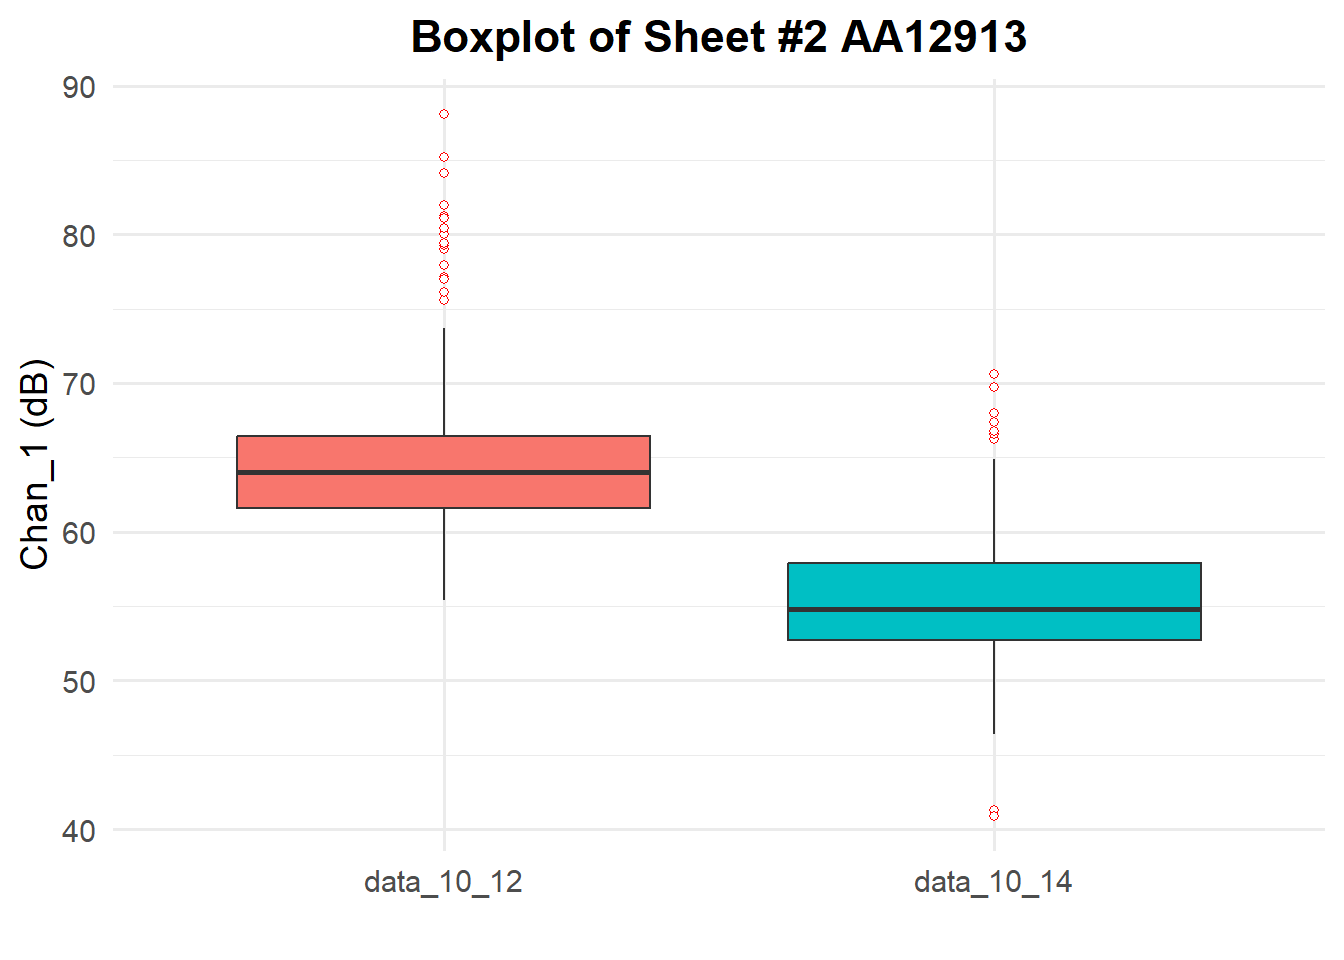
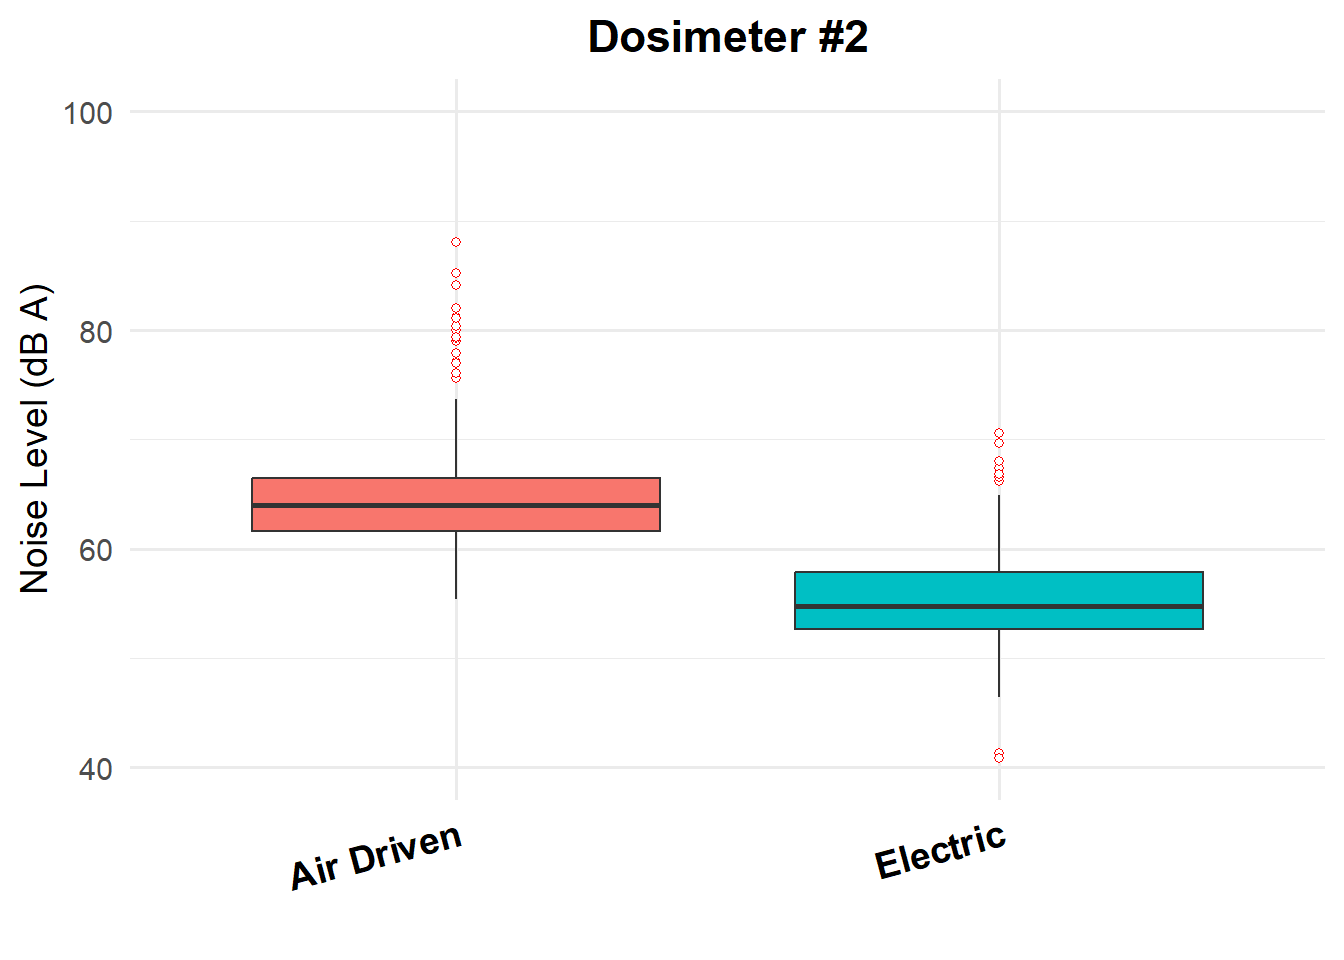
4/14/2026

diff --git a/docs/2025_0803_Brian.html b/docs/2025_0803_Brian.html
@@ -417,7 +417,7 @@ aria-hidden="true"></span> </a>
 <div class="tab-content">
 <div id="summary" class="tab-pane fade in active">
 <p>
-<strong>Last updated:</strong> 2025-10-22
+<strong>Last updated:</strong> 2026-04-14
 </p>
 <p>
 <strong>Checks:</strong> <span
@@ -551,15 +551,15 @@ project makes it easier to run your code on other machines.</p>
 <div class="panel panel-default">
 <div class="panel-heading">
 <p class="panel-title">
-<a data-toggle="collapse" data-parent="#workflowr-checks" href="#strongRepositoryversionstrongahrefhttpsgithubcomhan16Collaborationstree60ade3ab7800feecf24ad5468d272c39c56ab0a7targetblank60ade3aa">
+<a data-toggle="collapse" data-parent="#workflowr-checks" href="#strongRepositoryversionstrongahrefhttpsgithubcomhan16Collaborationstree08d61d2182e02bf96b7b6c56da4b98175815ecc9targetblank08d61d2a">
 <span class="glyphicon glyphicon-ok text-success"
 aria-hidden="true"></span> <strong>Repository version:</strong>
-<a href="https://github.com/han16/Collaborations/tree/60ade3ab7800feecf24ad5468d272c39c56ab0a7" target="_blank">60ade3a</a>
+<a href="https://github.com/han16/Collaborations/tree/08d61d2182e02bf96b7b6c56da4b98175815ecc9" target="_blank">08d61d2</a>
 </a>
 </p>
 </div>
 <div
[2 lines of base64/hex data omitted]
 class="panel-collapse collapse">
 <div class="panel-body">
 <p>
@@ -569,7 +569,7 @@ reproducibility.
 </p>
 <p>
 The results in this page were generated with repository version
-<a href="https://github.com/han16/Collaborations/tree/60ade3ab7800feecf24ad5468d272c39c56ab0a7" target="_blank">60ade3a</a>.
+<a href="https://github.com/han16/Collaborations/tree/08d61d2182e02bf96b7b6c56da4b98175815ecc9" target="_blank">08d61d2</a>.
 See the <em>Past versions</em> tab to see a history of the changes made
 to the R Markdown and HTML files.
 </p>
@@ -589,7 +589,6 @@ Ignored files:
     Ignored:    analysis/2022_Mar2_Marinho_cache/
 
 Unstaged changes:
-    Modified:   analysis/2025_0601_Shikha.Rmd
     Modified:   analysis/2025_0803_Brian.Rmd
 
 </code></pre>
@@ -636,6 +635,40 @@ Message
 </tr>
 </thead>
 <tbody>
+<tr>
+<td>
+Rmd
+</td>
+<td>
+<a href="https://github.com/han16/Collaborations/blob/7590407e4d39e8db7717a4c1dd32efd8a810ae89/analysis/2025_0803_Brian.Rmd" target="_blank">7590407</a>
+</td>
+<td>
+han
+</td>
+<td>
[phone redacted]
+</td>
+<td>
+10/22/2025
+</td>
+</tr>
+<tr>
+<td>
+html
+</td>
+<td>
+<a href="https://rawcdn.githack.com/han16/Collaborations/7590407e4d39e8db7717a4c1dd32efd8a810ae89/docs/2025_0803_Brian.html" target="_blank">7590407</a>
+</td>
+<td>
+han
+</td>
+<td>
[phone redacted]
+</td>
+<td>
+10/22/2025
+</td>
+</tr>
 <tr>
 <td>
 Rmd
@@ -692,6 +725,8 @@ data_10_15=readRDS(file.path(root, &quot;..\\2025\\202509\\Brian\\Fw_ Dosimeter 
 <pre class="r"><code># Sheet names
 sheets &lt;- c(&quot;#1 AA12842&quot;, &quot;#2 AA12913&quot;, &quot;#3 AA12830&quot;)
 
+plot_list=list()
+
 # Loop through each sheet and draw boxplot + report outliers
 for (i in seq_along(sheets)) {
   
@@ -702,7 +737,7 @@ for (i in seq_along(sheets)) {
   # Combine into one data frame for plotting
   df_plot &lt;- data.frame(
     Value = c(d1, d2),
-    Dataset = factor(c(rep(&quot;data_10_12&quot;, length(d1)), rep(&quot;data_10_14&quot;, length(d2))))
+    Dataset = factor(c(rep(&quot;Air Driven&quot;, length(d1)), rep(&quot;Electric&quot;, length(d2))))
   )
   
   # ---- Outlier detection ----
@@ -724,33 +759,161 @@ for (i in seq_along(sheets)) {
   p &lt;- ggplot(df_plot, aes(x = Dataset, y = Value, fill = Dataset)) +
     geom_boxplot(outlier.shape = 21, outlier.fill = &quot;white&quot;, outlier.color = &quot;red&quot;) +
     labs(
-      title = paste(&quot;Boxplot of Sheet&quot;, sheets[i]),
-      y = &quot;Chan_1 (dB)&quot;,
+      title = paste0(&quot;Dosimeter #&quot;, i),
+      y = &quot;Noise Level (dB A)&quot;,
       x = &quot;&quot;
     ) +
+    ylim(c(40, 100))+
     theme_minimal(base_size = 14) +
     theme(
       legend.position = &quot;none&quot;,
-      plot.title = element_text(hjust = 0.5, face = &quot;bold&quot;)  # centers title
+      plot.title = element_text(hjust = 0.5, face = &quot;bold&quot;),  # centers title
+      axis.text.x = element_text(face = &quot;bold&quot;, size = 14, color = &quot;black&quot;, 
+                                 angle = 15,    # Slopes the text
+                                 hjust = 1      # Aligns tilted text to the ticks
+      )
     )
   
   print(p)
+  plot_list[[i]]=p
 }</code></pre>
 <pre><code>
 === Sheet: #1 AA12842 ===
 data_10_12 outliers: 85.1, 78.2, 87.6, 77.7, 77.5, 85.3, 84.7, 82.9, 80.3, 79.8, 81.9, 83.5, 80.9, 83.2, 83 
 data_10_14 outliers: 114.9, 113.8, 80.2, 110.7, 76.3, 72.9, 74.7, 43 </code></pre>
 <p><img src="figure/2025_0803_Brian.Rmd/unnamed-chunk-4-1.png" width="672" style="display: block; margin: auto;" /></p>
+<p>
+<button type="button" class="btn btn-default btn-xs btn-workflowr btn-workflowr-fig" data-toggle="collapse" data-target="#fig-unnamed-chunk-4-1">
+Past versions of unnamed-chunk-4-1.png
+</button>
+</p>
+<div id="fig-unnamed-chunk-4-1" class="collapse">
+<div class="table-responsive">
+<table class="table table-condensed table-hover">
+<thead>
+<tr>
+<th>
+Version
+</th>
+<th>
+Author
+</th>
+<th>
+Date
+</th>
+</tr>
+</thead>
+<tbody>
+<tr>
+<td>
+<a href="https://github.com/han16/Collaborations/blob/7590407e4d39e8db7717a4c1dd32efd8a810ae89/docs/figure/2025_0803_Brian.Rmd/unnamed-chunk-4-1.png" target="_blank">7590407</a>
+</td>
+<td>
+han
+</td>
+<td>
[phone redacted]
+</td>
+</tr>
+</tbody>
+</table>
+</div>
+</div>
 <pre><code>
 === Sheet: #2 AA12913 ===
 data_10_12 outliers: 88.1, 81.2, 77.1, 80, 75.6, 77.9, 80.4, 79, 79.4, 84.1, 76.1, 77, 81.1, 79, 79.3, 79.4, 85.2, 82 
 data_10_14 outliers: 66.2, 67.4, 69.7, 66.6, 68, 70.6, 66.8, 41.3, 40.9 </code></pre>
 <p><img src="figure/2025_0803_Brian.Rmd/unnamed-chunk-4-2.png" width="672" style="display: block; margin: auto;" /></p>
+<p>
+<button type="button" class="btn btn-default btn-xs btn-workflowr btn-workflowr-fig" data-toggle="collapse" data-target="#fig-unnamed-chunk-4-2">
+Past versions of unnamed-chunk-4-2.png
+</button>
+</p>
+<div id="fig-unnamed-chunk-4-2" class="collapse">
+<div class="table-responsive">
+<table class="table table-condensed table-hover">
+<thead>
+<tr>
+<th>
+Version
+</th>
+<th>
+Author
+</th>
+<th>
+Date
+</th>
+</tr>
+</thead>
+<tbody>
+<tr>
+<td>
+<a href="https://github.com/han16/Collaborations/blob/7590407e4d39e8db7717a4c1dd32efd8a810ae89/docs/figure/2025_0803_Brian.Rmd/unnamed-chunk-4-2.png" target="_blank">7590407</a>
+</td>
+<td>
+han
+</td>
+<td>
[phone redacted]
+</td>
+</tr>
+</tbody>
+</table>
+</div>
+</div>
 <pre><code>
 === Sheet: #3 AA12830 ===
 data_10_12 outliers: 79, 78.3, 79.3, 80.1, 80.7, 78.8, 81.9, 79.2, 82.5 
 data_10_14 outliers: 38.2, 38 </code></pre>
 <p><img src="figure/2025_0803_Brian.Rmd/unnamed-chunk-4-3.png" width="672" style="display: block; margin: auto;" /></p>
+<p>
+<button type="button" class="btn btn-default btn-xs btn-workflowr btn-workflowr-fig" data-toggle="collapse" data-target="#fig-unnamed-chunk-4-3">
+Past versions of unnamed-chunk-4-3.png
+</button>
+</p>
+<div id="fig-unnamed-chunk-4-3" class="collapse">
+<div class="table-responsive">
+<table class="table table-condensed table-hover">
+<thead>
+<tr>
+<th>
+Version
+</th>
+<th>
+Author
+</th>
+<th>
+Date
+</th>
+</tr>
+</thead>
+<tbody>
+<tr>
+<td>
+<a href="https://github.com/han16/Collaborations/blob/7590407e4d39e8db7717a4c1dd32efd8a810ae89/docs/figure/2025_0803_Brian.Rmd/unnamed-chunk-4-3.png" target="_blank">7590407</a>
+</td>
+<td>
+han
+</td>
+<td>
[phone redacted]
+</td>
+</tr>
+</tbody>
+</table>
+</div>
+</div>
+<pre class="r"><code>library(patchwork) # For combining plots
+combined_plot &lt;- plot_list[[1]] + plot_list[[2]] + plot_list[[3]] + 
+  plot_layout(ncol = 3) + 
+  plot_annotation(title = &#39;Simulation Laboratory&#39;, 
+                  theme = theme(plot.title = element_text(hjust = 0.5, size = 18, face = &quot;bold&quot;)))
+
+# Display the result
+print(combined_plot)</code></pre>
+<p><img src="figure/2025_0803_Brian.Rmd/unnamed-chunk-4-4.png" width="672" style="display: block; margin: auto;" /></p>
+<pre class="r"><code># Optional: Save it as a wide figure
+# ggsave(&quot;combined_dosimeters.png&quot;, combined_plot, width = 15, height = 5, dpi = 300)</code></pre>
 </div>
 <div id="air-driven-vs-electric" class="section level2">
 <h2>air driven vs electric</h2>
@@ -868,6 +1031,43 @@ ggplot(data.frame(Value = values), aes(y = Value)) +
     plot.title = element_text(hjust = 0.5, face = &quot;bold&quot;)  # center title
   )</code></pre>
 <p><img src="figure/2025_0803_Brian.Rmd/unnamed-chunk-6-1.png" width="672" style="display: block; margin: auto;" /></p>
+<p>
+<button type="button" class="btn btn-default btn-xs btn-workflowr btn-workflowr-fig" data-toggle="collapse" data-target="#fig-unnamed-chunk-6-1">
+Past versions of unnamed-chunk-6-1.png
+</button>
+</p>
+<div id="fig-unnamed-chunk-6-1" class="collapse">
+<div class="table-responsive">
+<table class="table table-condensed table-hover">
+<thead>
+<tr>
+<th>
+Version
+</th>
+<th>
+Author
+</th>
+<th>
+Date
+</th>
+</tr>
+</thead>
+<tbody>
+<tr>
+<td>
+<a href="https://github.com/han16/Collaborations/blob/7590407e4d39e8db7717a4c1dd32efd8a810ae89/docs/figure/2025_0803_Brian.Rmd/unnamed-chunk-6-1.png" target="_blank">7590407</a>
+</td>
+<td>
+han
+</td>
+<td>
[phone redacted]
+</td>
+</tr>
+</tbody>
+</table>
+</div>
+</div>
 </div>
 <div id="sample-size-calculation" class="section level2">
 <h2>sample size calculation</h2>
@@ -898,7 +1098,7 @@ Session information
 <pre class="r"><code>sessionInfo()</code></pre>
 <pre><code>R version 4.3.2 (2023-10-31 ucrt)
 Platform: x86_64-w64-mingw32/x64 (64-bit)
-Running under: Windows 11 x64 (build 26100)
+Running under: Windows 11 x64 (build 26200)
 
 Matrix products: default
 
@@ -918,16 +1118,16 @@ attached base packages:
 [8] base     
 
 other attached packages:
- [1] VennDiagram_1.7.3   futile.logger_1.4.3 condsurv_1.0.0     
- [4] devtools_2.4.5      usethis_3.1.0       tidycmprsk_1.1.0   
- [7] gtsummary_2.0.4     ggsurvfit_1.1.0     irr_0.84.1         
-[10] lpSolve_5.6.23      readxl_1.4.3        cowplot_1.1.3      
-[13] matrixStats_1.5.0   gridExtra_2.3       DT_0.33            
-[16] rstatix_0.7.2       ggpubr_0.6.0        kableExtra_1.4.0   
-[19] lubridate_1.9.4     forcats_1.0.0       stringr_1.5.1      
-[22] dplyr_1.1.4         purrr_1.0.2         readr_2.1.4        
-[25] tidyr_1.3.1         tibble_3.2.1        ggplot2_3.5.1      
-[28] tidyverse_2.0.0     rprojroot_2.0.4    
+ [1] patchwork_1.3.0     VennDiagram_1.7.3   futile.logger_1.4.3
+ [4] condsurv_1.0.0      devtools_2.4.5      usethis_3.1.0      
+ [7] tidycmprsk_1.1.0    gtsummary_2.0.4     ggsurvfit_1.1.0    
+[10] irr_0.84.1          lpSolve_5.6.23      readxl_1.4.3       
+[13] cowplot_1.1.3       matrixStats_1.5.0   gridExtra_2.3      
+[16] DT_0.33             rstatix_0.7.2       ggpubr_0.6.0       
+[19] kableExtra_1.4.0    lubridate_1.9.4     forcats_1.0.0      
+[22] stringr_1.5.1       dplyr_1.1.4         purrr_1.0.2        
+[25] readr_2.1.4         tidyr_1.3.1         tibble_3.2.1       
+[28] ggplot2_3.5.1       tidyverse_2.0.0     rprojroot_2.0.4    
 
 loaded via a namespace (and not attached):
  [1] formatR_1.14         remotes_2.5.0        rlang_1.1.2         
@@ -941,7 +1141,7 @@ loaded via a namespace (and not attached):
 [25] bslib_0.9.0          stringi_1.8.3        car_3.1-3           
 [28] pkgload_1.4.0        jquerylib_0.1.4      cellranger_1.1.0    
 [31] Rcpp_1.0.11          knitr_1.49           httpuv_1.6.15       
-[34] Matrix_1.6-1.1       splines_4.3.2        timechange_0.3.0    
+[34] Matrix_1.6-5         splines_4.3.2        timechange_0.3.0    
 [37] tidyselect_1.2.1     rstudioapi_0.17.1    abind_1.4-8         
 [40] yaml_2.3.8           miniUI_0.1.1.1       pkgbuild_1.4.6      
 [43] lattice_0.21-9       shiny_1.10.0         withr_3.0.2         